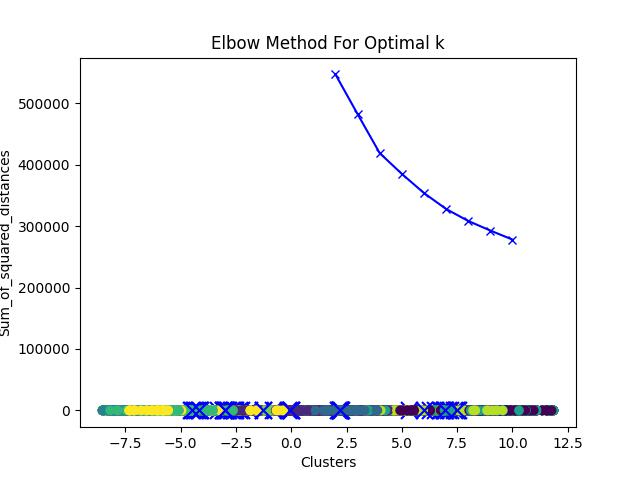
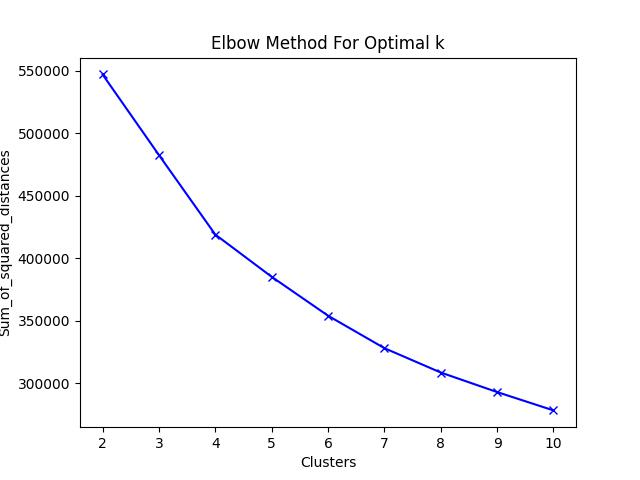
Minor bug fix, associate features with labels

diff --git a/phase2/emoji_clustering.py b/phase2/emoji_clustering.py
@@ -17,14 +17,17 @@ def load_features(filepath):
     dataset = torch.load(filepath, DEVICE)
 
     features = []
+    labels = []
     num_em = 0
     for data in dataset:
         for embedding in data["embeddings"]:
             features.append(embedding)
+            labels.append(data["english_sent"])
         num_em += data["num_emoji"] + 1
     features = torch.stack(features)
 
     assert len(features) == num_em
+    assert len(features) == len(labels)
     assert len(features[0]) == 768
 
     print(f"Loaded features: {filepath} as a Tensor: {features.shape}")
@@ -38,8 +41,9 @@ def cluster_features(features, n_clusters=6):
     """
     kmeans = KMeans(n_clusters=n_clusters, random_state=RAND_SEED)
     kmeans.fit(features)
+    inertia = kmeans.inertia_
 
-    print(f"Fitted features into KMeans model: {kmeans}")
+    print(f"Fitted features into KMeans model: {kmeans}, inertia = {inertia}")
 
     # Visualization
     pca = PCA(random_state=RAND_SEED)
@@ -60,24 +64,26 @@ def cluster_features(features, n_clusters=6):
     PLOT_FILEPATH = os.path.join(EXPERIMENT_FOLDER, f"cluster-{n_clusters}.jpg")
     plt.savefig(PLOT_FILEPATH)
 
-    return kmeans.inertia_
+    print(f"Generated graph: {PLOT_FILEPATH}")
+    return inertia
 
 
 def plot_inertia(inertias, N):
     """
     Plot the n_clusters-to-inertia graph for elbow method
     """
+    plt.figure()
     plt.plot(N, inertias, "bx-")
     plt.xlabel("Clusters")
     plt.ylabel("Sum_of_squared_distances")
-    plt.title("Elbow Method For Optimal k")
+    plt.title("Elbow Method For Optimal n")
 
     ELBOW_FILEPATH = os.path.join(EXPERIMENT_FOLDER, "elbow-method.jpg")
     plt.savefig(ELBOW_FILEPATH)
 
 
 def main():
-    features = load_features(FEATURES_FILEPATH, DEVICE)
+    features = load_features(FEATURES_FILEPATH)
 
     inertias = []
     N = range(2, 11)
